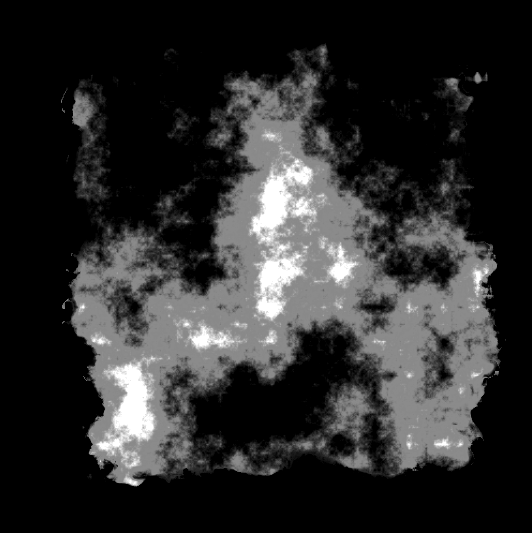
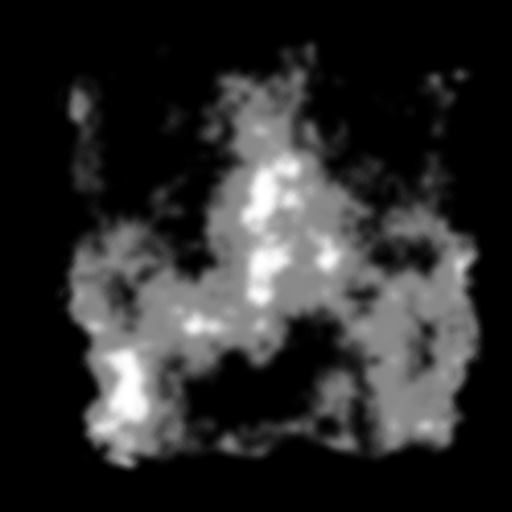
Interesting noise map.

diff --git a/src/kosmos/chunks/Chunk.java b/src/kosmos/chunks/Chunk.java
@@ -11,19 +11,23 @@ package kosmos.chunks;
 
 import flounder.entities.*;
 import flounder.entities.components.*;
+import flounder.framework.*;
 import flounder.helpers.*;
 import flounder.maths.*;
 import flounder.maths.vectors.*;
-import flounder.particles.*;
-import flounder.particles.spawns.*;
+import flounder.noise.*;
 import flounder.physics.*;
 import flounder.physics.bounding.*;
+import flounder.resources.*;
 import flounder.space.*;
 import kosmos.chunks.biomes.*;
 import kosmos.chunks.meshing.*;
 import kosmos.entities.components.*;
 import kosmos.world.*;
 
+import javax.imageio.*;
+import java.awt.image.*;
+import java.io.*;
 import java.util.*;
 
 /**
@@ -47,12 +51,11 @@ public class Chunk extends Entity {
 	// The overall world radius footprint per chunk.
 	public static final float CHUNK_WORLD_SIZE = (float) Math.sqrt(3.0) * (CHUNK_RADIUS - 0.5f);
 
-	private ParticleSystem particleSystem;
-
 	private List<Chunk> childrenChunks;
 	private IBiome.Biomes biome;
 	private ChunkMesh chunkMesh;
 	private Sphere sphere;
+	private boolean loaded;
 
 	public Chunk(ISpatialStructure<Entity> structure, Vector3f position) {
 		super(structure, position, new Vector3f());
@@ -60,45 +63,13 @@ public class Chunk extends Entity {
 		this.childrenChunks = new ArrayList<>();
 		this.biome = getWorldBiome(position.x, position.z);
 		this.chunkMesh = new ChunkMesh(this);
-		this.sphere = new Sphere();
+		this.sphere = new Sphere(1.0f);
+		this.sphere.update(position, null, Chunk.CHUNK_WORLD_SIZE, sphere);
+		this.loaded = false;
 
 		new ComponentModel(this, 1.0f, chunkMesh.getModel(), biome.getBiome().getTexture(), 0);
 		new ComponentSurface(this, 1.0f, 0.0f, false, false, true);
 		new ComponentChunk(this);
-
-		// generateWeather();
-		// generateClouds();
-	}
-
-	private void generateWeather() {
-		if (biome.getBiome().getWeatherParticle() != null) {
-			List<ParticleType> templates = new ArrayList<>();
-			templates.add(biome.getBiome().getWeatherParticle());
-			particleSystem = new ParticleSystem(templates, new SpawnPoint(), 10, 0.3f, 0.3f);
-			// new SpawnCircle(40.0f, new Vector3f(0.0f, -1.0f, 0.0f))
-			particleSystem.setSystemCentre(new Vector3f(getPosition().x, 25.0f, getPosition().z));
-		}
-	}
-
-	private void generateClouds() {
-		for (int x = -1; x <= 1; x++) {
-			for (int y = -1; y <= 1; y++) {
-				float offsetX = KosmosWorld.get().getNoise().noise(x / 4.0f, y / 4.0f) * 20.0f;
-				float offsetZ = KosmosWorld.get().getNoise().noise(x / 9.0f, y / 9.0f) * 20.0f;
-				float height = Math.abs(KosmosWorld.get().getNoise().noise(x / 2.0f, y / 2.0f) * 2.0f) + 2.0f;
-				float rotationY = KosmosWorld.get().getNoise().noise((x - y) / 60.0f, 1.0f) * 3600.0f;
-				float rotationZ = KosmosWorld.get().getNoise().noise((x - y) / 20.0f, 1.0f) * 3600.0f;
-
-				/*Entity entity = new InstanceCloud(FlounderEntities.getEntities(), new Vector3f(
-						getPosition().x + (x * 11.0f) + offsetX,
-						getPosition().y + 7.0f * height,
-						getPosition().z + (y * 11.0f) + offsetZ),
-						new Vector3f(0.0f, rotationY, rotationZ),
-						Maths.randomInRange(1.0f, 2.25f)
-				);
-				new ComponentChild(entity, this);*/
-			}
-		}
 	}
 
 	/**
@@ -155,7 +126,7 @@ public class Chunk extends Entity {
 		this.chunkMesh.update();
 
 		// Adds this mesh AABB to the bounding render pool.
-		FlounderBounding.get().addShapeRender(getSphere());
+		FlounderBounding.get().addShapeRender(sphere);
 	}
 
 	public static List<Vector3f> generate(Chunk chunk) {
@@ -215,6 +186,47 @@ public class Chunk extends Entity {
 		chunk.biome.getBiome().generateEntity(chunk, worldPosition);
 	}
 
+	private static BufferedImage MAP_IMAGE = null;
+	private static final float MAP_MAX_HEIGHT = 8.0f;
+	private static final float MAP_MAX_PIXEL_COLOUR = 256.0f * 256.0f * 256.0f;
+
+	static {
+		try {
+			MAP_IMAGE = ImageIO.read(new MyFile(MyFile.RES_FOLDER, "map.png").getInputStream());
+		} catch (IOException e) {
+			e.printStackTrace();
+		}
+
+		final int outputWidth = 512;
+		final int outputHeight = 512;
+		BufferedImage image = new BufferedImage(outputWidth, outputHeight, BufferedImage.TYPE_INT_RGB);
+
+		PerlinNoise simplexNoise = new PerlinNoise(420);
+
+		for (int y = 0; y < outputHeight; y++) {
+			for (int x = 0; x < outputWidth; x++) {
+				//float outside = (float) Math.sqrt(Math.pow(x - (outputWidth / 2.0f), 2) + Math.pow(y - (outputHeight / 2.0f), 2)) < ((outputWidth + outputHeight) / 4.0f) ? 1.0f : 0.0f;
+				//float islands = simplexNoise.tileableNoise(x / 180.0f, y / 180.0f, outputWidth, outputHeight);
+				//float surface = simplexNoise.tileableNoise(x / 30.0f, y / 30.0f, outputWidth, outputHeight) + 1.0f;
+				//float height = Maths.clamp(outside * islands * surface, 0.0f, 1.0f);
+				float height = Maths.clamp((int) (KosmosWorld.get().getNoise().noise(x / 30.0f, y / 30.0f) * 6.0f), 0.0f, 1.0f);
+
+				int rgb = (int) (255.0f * height);
+				rgb = (rgb << 8) + ((int) (255.0f * height));
+				rgb = (rgb << 8) + ((int) (255.0f * height));
+				image.setRGB(x, y, rgb);
+			}
+		}
+
+		File outputFile = new File(Framework.getRoamingFolder().getPath() + "/save0_map.png");
+
+		try {
+			ImageIO.write(image, "png", outputFile);
+		} catch (IOException e) {
+			e.printStackTrace();
+		}
+	}
+
 	/**
 	 * Gets the terrain height for a position in the world.
 	 *
@@ -226,6 +238,21 @@ public class Chunk extends Entity {
 	public static float getWorldHeight(float positionX, float positionZ) {
 		// Calculates the final height for the world position using perlin.
 		float height = (float) Math.sqrt(2.0) * (int) (KosmosWorld.get().getNoise().noise(positionX / 30.0f, positionZ / 30.0f) * 12.0f);
+
+		if (MAP_IMAGE != null) {
+			int imageX = (int) positionX + (MAP_IMAGE.getWidth() / 2);
+			int imageY = (int) positionZ + (MAP_IMAGE.getHeight() / 2);
+
+			if (imageX < 0 || imageX >= MAP_IMAGE.getWidth() || imageY < 0 || imageY >= MAP_IMAGE.getHeight()) {
+				return Float.NEGATIVE_INFINITY;
+			}
+
+			height = MAP_IMAGE.getRGB(imageX, imageY);
+			height += MAP_MAX_PIXEL_COLOUR / 2.0f;
+			height /= MAP_MAX_PIXEL_COLOUR / 2.0f;
+			height *= MAP_MAX_HEIGHT;
+			height = (float) Math.sqrt(2.0) * (int) height;
+		}
 
 		// Ignore height that would be water/nothing.
 		if (height < 0.0f) {
@@ -289,7 +316,11 @@ public class Chunk extends Entity {
 	}
 
 	public boolean isLoaded() {
-		return chunkMesh.getModel() != null && chunkMesh.getModel().isLoaded();
+		return loaded; // chunkMesh.getModel() != null && chunkMesh.getModel().isLoaded()
+	}
+
+	public void setLoaded(boolean loaded) {
+		this.loaded = loaded;
 	}
 
 	@Override
@@ -299,12 +330,7 @@ public class Chunk extends Entity {
 
 	public void delete() {
 		chunkMesh.delete();
-
-		if (particleSystem != null) {
-			particleSystem.delete();
-			particleSystem = null;
-		}
-
+		loaded = false;
 		forceRemove();
 	}
 }

diff --git a/src/kosmos/uis/OverlayMap.java b/src/kosmos/uis/OverlayMap.java
@@ -9,40 +9,45 @@
 
 package kosmos.uis;
 
-import flounder.camera.*;
-import flounder.fonts.*;
+import flounder.devices.*;
+import flounder.entities.*;
 import flounder.guis.*;
-import flounder.maths.*;
 import flounder.maths.vectors.*;
 import flounder.resources.*;
 import flounder.textures.*;
 import flounder.visual.*;
+import kosmos.world.*;
 
 public class OverlayMap extends ScreenObject {
+	private static final float VIEW_SIZE_X = 0.9f;
+	private static final float VIEW_SIZE_Y = 0.9f;
+	private static final float VIEW_POSITION_X = 0.5f;
+	private static final float VIEW_POSITION_Y = 0.5f;
+
 	private GuiObject textureView;
-	private TextObject positionText;
+	private GuiObject playerPosition;
 
 	public OverlayMap(ScreenObject parent) {
 		super(parent, new Vector2f(0.5f, 0.5f), new Vector2f(1.0f, 1.0f));
 		super.setInScreenCoords(false);
 
-		this.textureView = new GuiObject(this, new Vector2f(0.5f, 0.5f), new Vector2f(1.05f, 0.7f), TextureFactory.newBuilder().setFile(new MyFile(FlounderGuis.GUIS_LOC, "maptest.png")).create(), 1);
+		this.textureView = new GuiObject(this, new Vector2f(VIEW_POSITION_X, VIEW_POSITION_Y), new Vector2f(VIEW_SIZE_X, VIEW_SIZE_Y), TextureFactory.newBuilder().setFile(new MyFile(MyFile.RES_FOLDER, "map.png")).create(), 1);
 		this.textureView.setInScreenCoords(true);
 
-		this.positionText = new TextObject(this, new Vector2f(0.31f, 0.38f), "POSITION: [0, 0, 0]", 0.75f, FlounderFonts.CANDARA, 0.5f, GuiAlign.LEFT);
-		positionText.setInScreenCoords(true);
-		positionText.setColour(new Colour(1.0f, 1.0f, 1.0f));
-		positionText.setBorderColour(new Colour(0.15f, 0.15f, 0.15f));
-		positionText.setBorder(new ConstantDriver(0.04f));
+		this.playerPosition = new GuiObject(this, new Vector2f(0.5f, 0.5f), new Vector2f(0.04f, 0.04f), TextureFactory.newBuilder().setFile(new MyFile(MyFile.RES_FOLDER, "pointer.png")).create(), 1);
+		this.playerPosition.setInScreenCoords(false);
 	}
 
 	@Override
 	public void updateObject() {
-		if (!isVisible()) {
-			return;
-		}
+		Entity player = KosmosWorld.get().getEntityPlayer();
 
-		positionText.setText("POSITION: [" + (FlounderCamera.get().getPlayer() == null ? "NULL" : Maths.roundToPlace(FlounderCamera.get().getPlayer().getPosition().x, 1) + ", " + Maths.roundToPlace(FlounderCamera.get().getPlayer().getPosition().y, 1) + ", " + Maths.roundToPlace(FlounderCamera.get().getPlayer().getPosition().z, 1) + "]"));
+		if (player != null) {
+			float px = player.getPosition().x / 512.0f;
+			float pz = player.getPosition().z / 512.0f;
+			playerPosition.getPosition().set(((FlounderDisplay.get().getAspectRatio() * VIEW_POSITION_X) - (VIEW_SIZE_X * 0.5f)) + (VIEW_SIZE_X * px) + (VIEW_SIZE_X * 0.5f), (VIEW_POSITION_Y - (VIEW_SIZE_Y * 0.5f)) + (VIEW_SIZE_Y * pz) + (VIEW_SIZE_Y * 0.5f));
+			playerPosition.setRotationDriver(new ConstantDriver(-player.getRotation().y + 180.0f));
+		}
 	}
 
 	@Override

diff --git a/src/kosmos/chunks/meshing/MeshBuildRequest.java b/src/kosmos/chunks/meshing/MeshBuildRequest.java
@@ -150,16 +150,14 @@ public class MeshBuildRequest implements RequestResource {
 					return null; // new AABB(new Vector3f(chunkMesh.minX, chunkMesh.minY, chunkMesh.minZ), new Vector3f(chunkMesh.maxX, chunkMesh.maxY, chunkMesh.maxZ));
 				}
 			}).create();
+			chunkMesh.chunk.setLoaded(true);
 		} else {
 			// No model if no data can be loaded.
 			chunkMesh.chunkModel = null;
+			chunkMesh.chunk.setLoaded(true);
 
 			// Normal chunk size.
 			chunkMesh.maxRadius = Chunk.CHUNK_WORLD_SIZE;
 		}
-
-		// Updates the chunks sphere.
-		chunkMesh.chunk.getSphere().setRadius(1.0f);
-		chunkMesh.chunk.getSphere().update(chunkMesh.chunk.getPosition(), null, chunkMesh.maxRadius, chunkMesh.chunk.getSphere());
 	}
 }

diff --git a/src/kosmos/chunks/KosmosChunks.java b/src/kosmos/chunks/KosmosChunks.java
@@ -235,7 +235,7 @@ public class KosmosChunks extends Module {
 	public void setCurrent(Chunk currentChunk) {
 		if (currentChunk != null && this.currentChunk != currentChunk) {
 			// Creates the children chunks for the new current chunk.
-			currentChunk.createChunksAround(new Single<>(2));
+			currentChunk.createChunksAround(new Single<>(4)); // TODO: Make work?
 
 			// Removes any old chunks that are out of range.
 			Iterator<Entity> it = FlounderEntities.get().getEntities().getAll().iterator();

diff --git a/src/kosmos/world/KosmosWorld.java b/src/kosmos/world/KosmosWorld.java
@@ -226,6 +226,10 @@ public class KosmosWorld extends Module {
 		return this.entitySun;
 	}
 
+	public Entity getEntityMoon1() {
+		return entityMoon1;
+	}
+
 	public float getDayFactor() {
 		return this.dayFactor;
 	}
